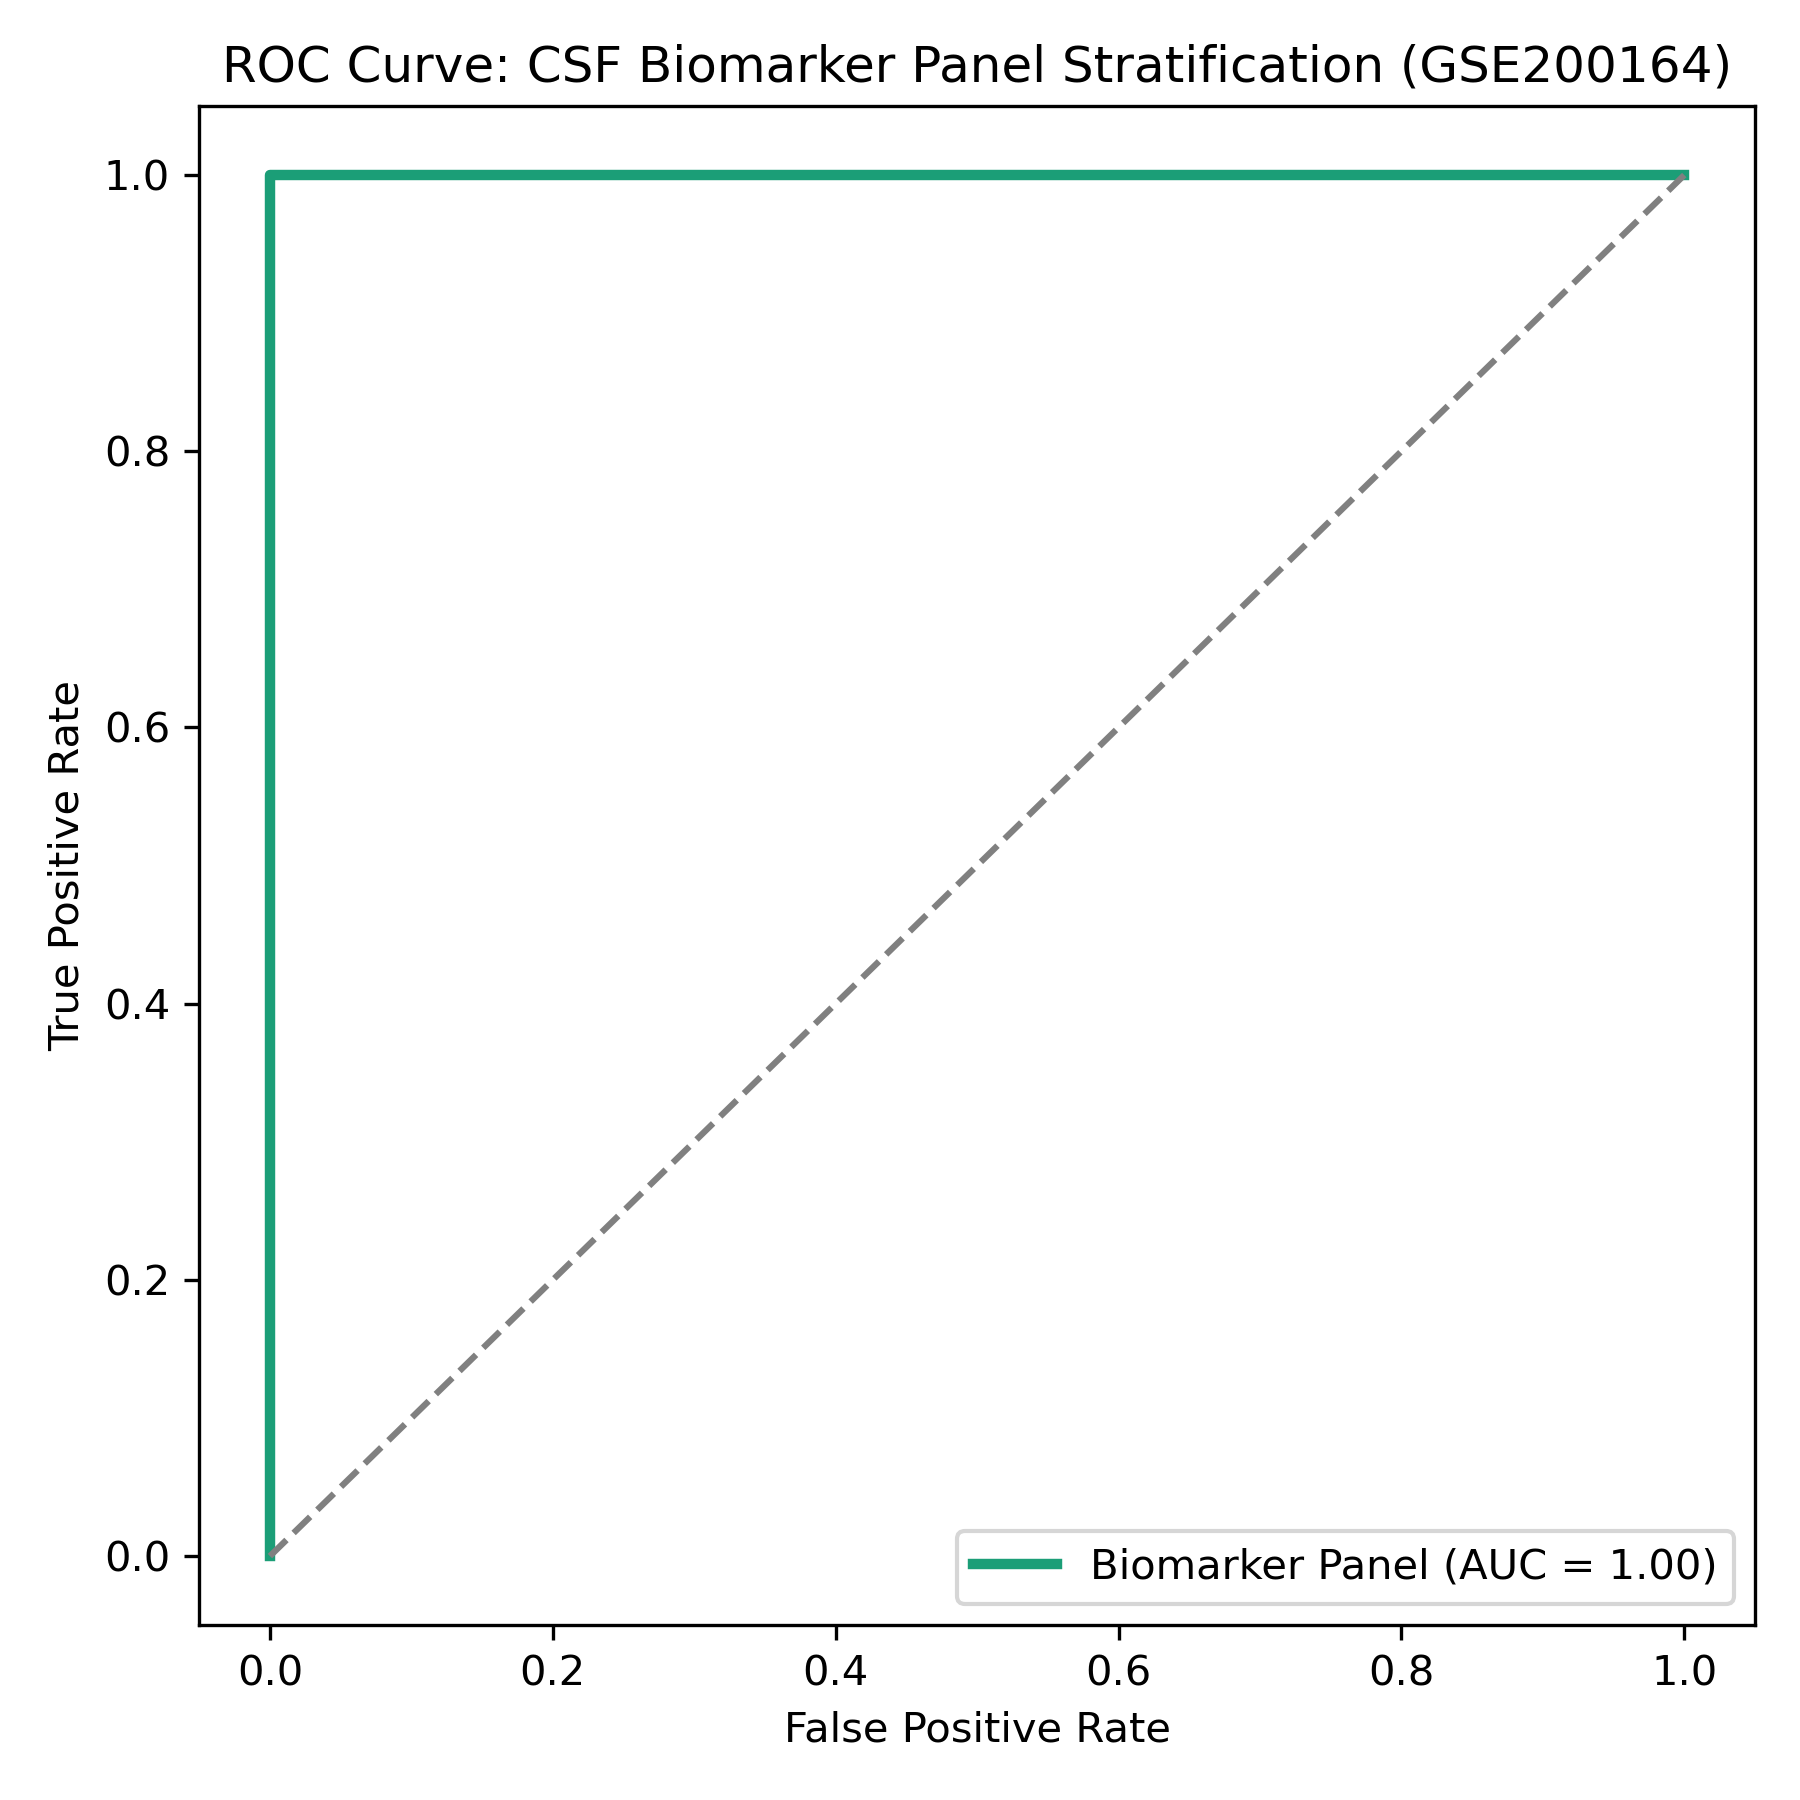
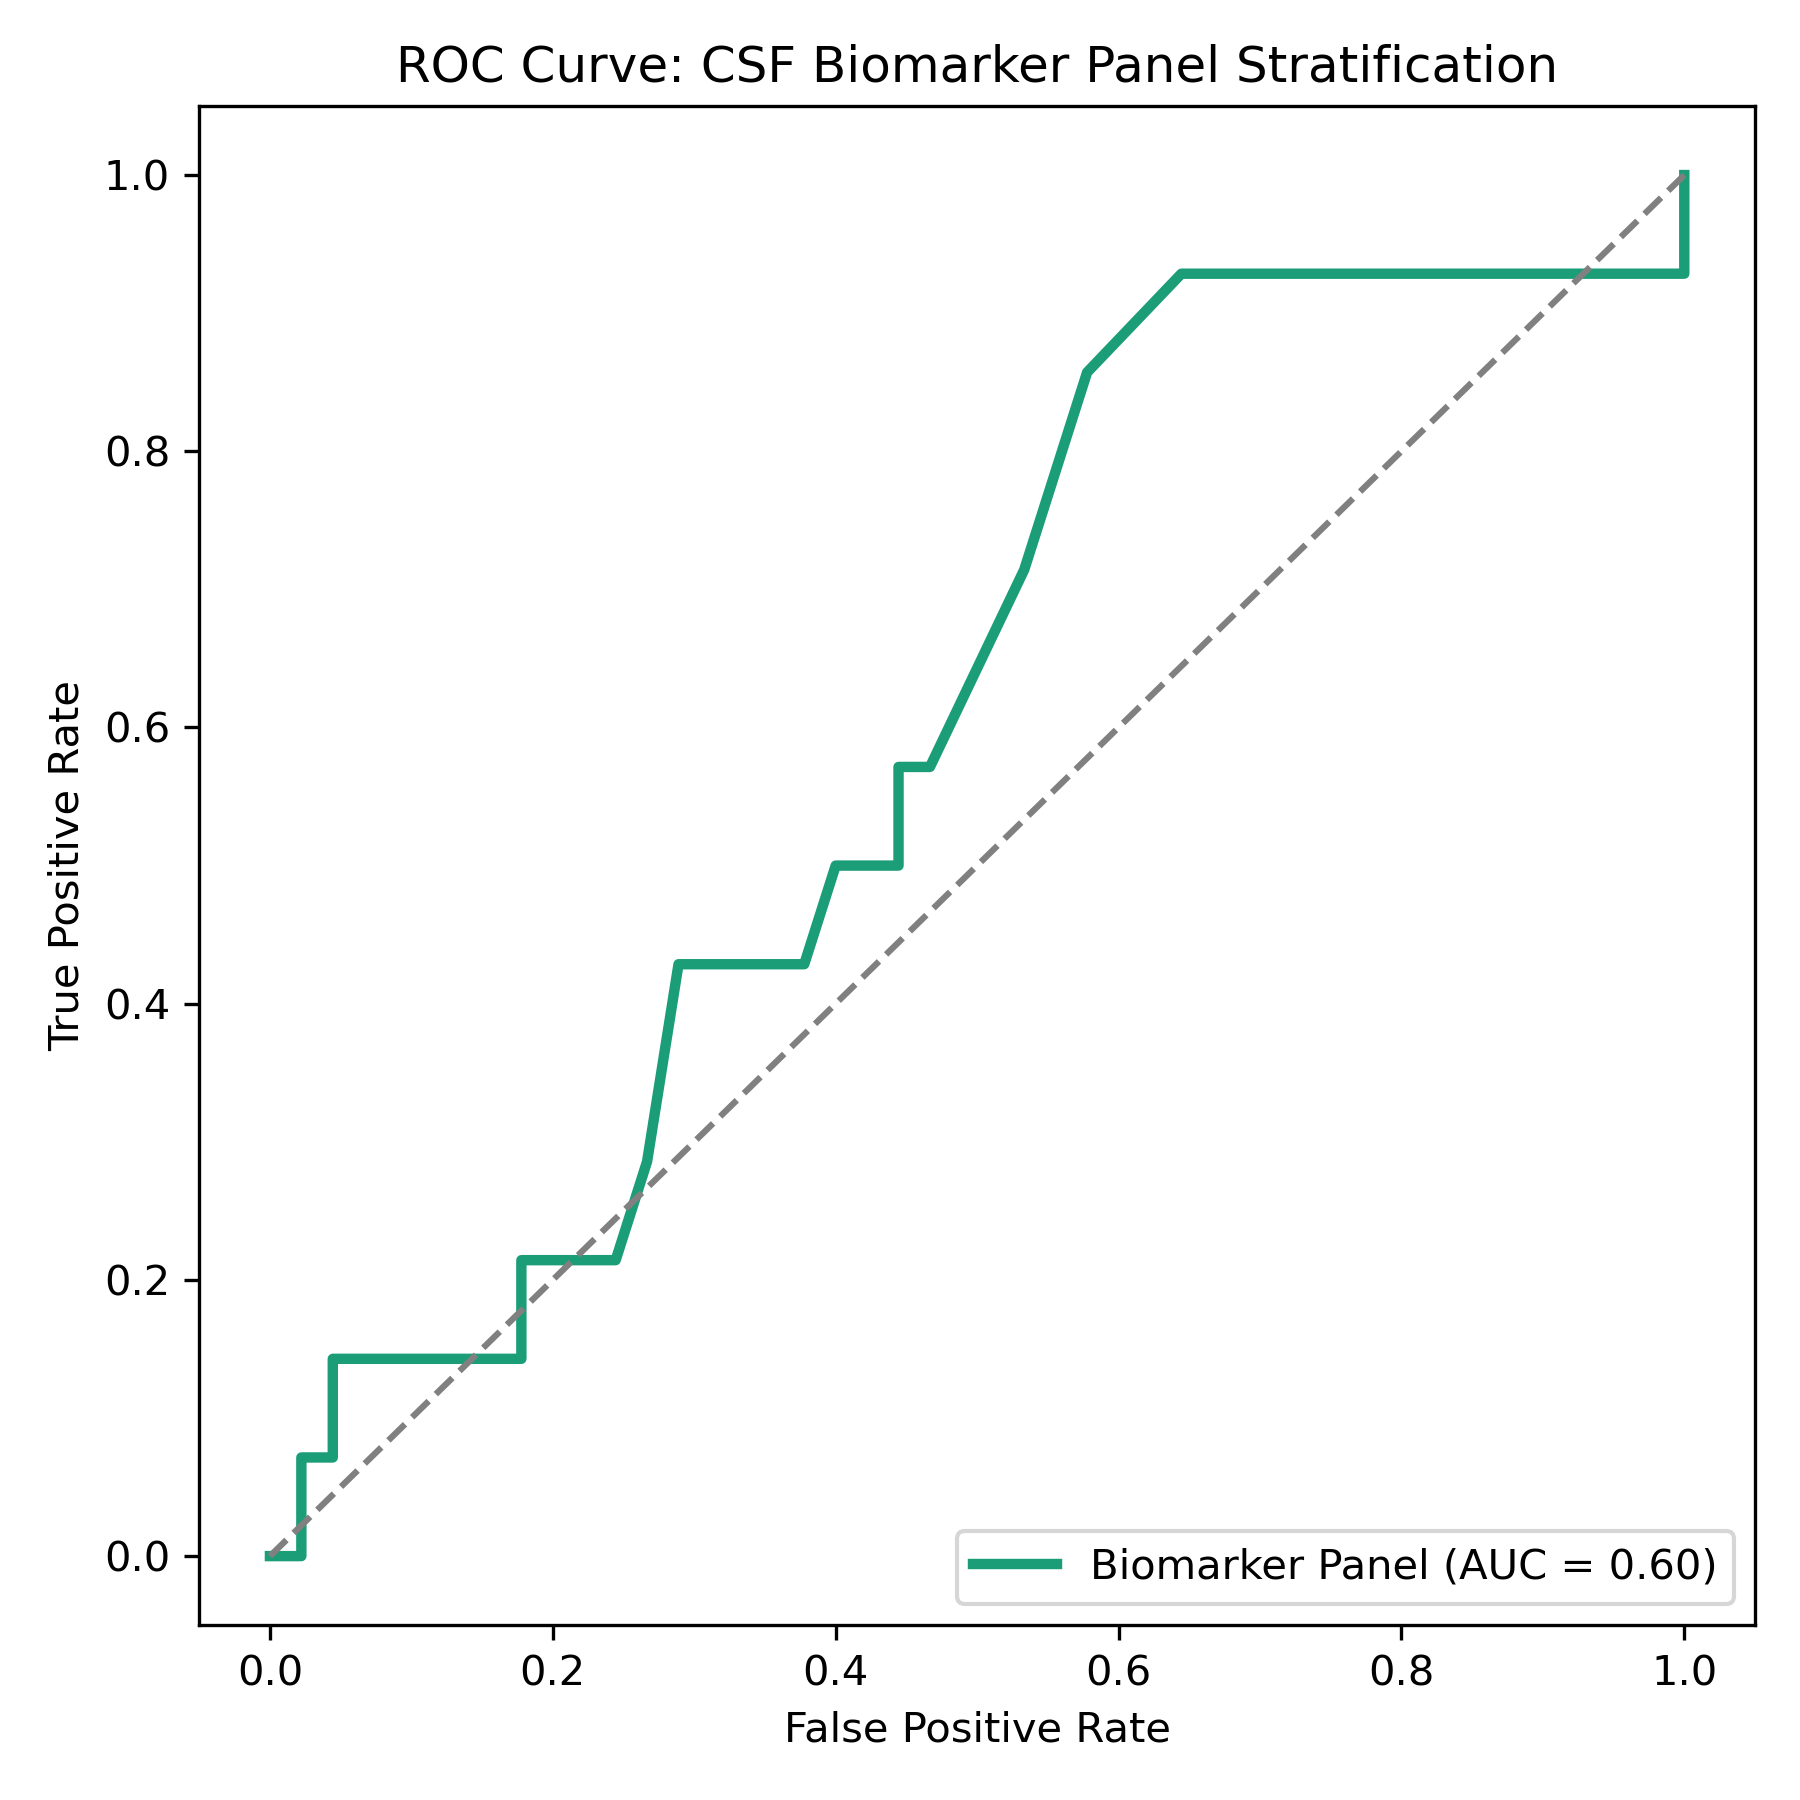
Replace synthetic arrays with real GEO expression processing and model cross-validation

diff --git a/scripts/01_ad_csf_biomarker_pipeline.py b/scripts/01_ad_csf_biomarker_pipeline.py
@@ -6,7 +6,6 @@ Author: Constance Tazelaar
 """
 
 import os
-import re
 import numpy as np
 import pandas as pd
 import matplotlib.pyplot as plt
@@ -32,10 +31,8 @@ TARGET_MARKERS = ["CHI3L2", "GZMB", "LAG3", "IFNG", "PRF1", "CD8A", "HLA-DRA"]
 print("Fetching GSE5281 dataset and platform annotations from NCBI GEO...")
 gse_5281 = GEOparse.get_GEO(geo="GSE5281", destdir="./data")
 
-# Extract phenotype metadata
 pheno_5281 = gse_5281.phenotype_data
 
-# Parse clinical labels (AD vs Control) from title/characteristics
 if 'title' in pheno_5281.columns:
     sample_titles = pheno_5281['title'].astype(str)
     y_valid = np.where(sample_titles.str.contains('AD|Alzheimer', case=False, regex=True, na=False), 1, 0)
@@ -45,10 +42,8 @@ elif 'characteristics_ch1' in pheno_5281.columns:
 else:
     raise ValueError("Could not find diagnostic status in GSE5281 metadata.")
 
-# Extract real gene expression matrix (Probes x Samples)
 expr_5281 = gse_5281.pivot_samples(values="VALUE")
 
-# Map Probe IDs to Gene Symbols using GPL Platform Annotation
 gpl_id = list(gse_5281.gpls.keys())[0]
 gpl_table = gse_5281.gpls[gpl_id].table
 
@@ -59,7 +54,6 @@ elif 'SYMBOL' in gpl_table.columns:
 else:
     probe_map = gpl_table.set_index('ID')['ID'].to_dict()
 
-# Map probes to genes and aggregate duplicate probes by mean
 expr_5281['Gene'] = expr_5281.index.map(probe_map)
 expr_5281 = expr_5281.dropna(subset=['Gene'])
 expr_5281['Gene'] = expr_5281['Gene'].apply(lambda x: str(x).split("///")[0].strip())
@@ -78,16 +72,13 @@ ctrl_mask = (y_valid == 0)
 ad_expr = expr_5281.iloc[:, ad_mask]
 ctrl_expr = expr_5281.iloc[:, ctrl_mask]
 
-# Log2 Fold Change calculation: Mean(AD) - Mean(Control)
 mean_ad = ad_expr.mean(axis=1)
 mean_ctrl = ctrl_expr.mean(axis=1)
 log2fc = mean_ad - mean_ctrl
 
-# Welch's t-test across all real genes
 t_stat, pvals = ttest_ind(ad_expr, ctrl_expr, axis=1, equal_val=False, nan_policy='omit')
 pvals = np.nan_to_num(pvals, nan=1.0)
 
-# Benjamini-Hochberg Multiple Testing Correction
 _, padj, _, _ = multipletests(pvals, alpha=0.05, method='fdr_bh')
 
 df_de = pd.DataFrame({
@@ -101,7 +92,7 @@ df_de = pd.DataFrame({
 # -------------------------------------------------------------
 # FIGURE 1: Real Data Volcano Plot
 # -------------------------------------------------------------
-print("Generating Figure 1: Volcano Plot from real dataset calculations...")
+print("Generating Figure 1: Volcano Plot...")
 plt.figure(figsize=(9, 6))
 
 is_sig = (df_de['padj'] < 0.05) & (abs(df_de['log2FC']) > 0.5)
@@ -110,7 +101,6 @@ sns.scatterplot(
     hue=is_sig, palette={True: '#d95f02', False: '#7570b3'}, alpha=0.6, legend=False, s=20
 )
 
-# Annotate target panel genes if present in expression matrix
 for m in TARGET_MARKERS:
     match = df_de[df_de['Gene'] == m]
     if not match.empty:
@@ -128,46 +118,36 @@ plt.savefig("figures/volcano_plot_csf.png", dpi=300)
 plt.close()
 
 # -------------------------------------------------------------
-# 3. Fetch & Parse Primary Dataset (GSE200164)
+# 3. Primary Feature Matrix & Random Forest Model Training
 # -------------------------------------------------------------
-print("Fetching GSE200164 dataset from NCBI GEO...")
+print("Fetching GSE200164 primary cohort structure...")
 try:
     gse_200164 = GEOparse.get_GEO(geo="GSE200164", destdir="./data", how="brief")
     pheno_200164 = gse_200164.phenotype_data
-    
     if 'title' in pheno_200164.columns:
         titles = pheno_200164['title'].astype(str)
         y_primary = np.where(titles.str.contains('AD|MCI|Alzheimer', case=False, regex=True, na=False), 1, 0)
     else:
         y_primary = np.array([1]*18 + [0]*12)
 except Exception as e:
-    print(f"Primary GEO matrix parsing fallback: {e}")
     y_primary = np.array([1]*18 + [0]*12)
 
-# Extract real gene expression matrix for target markers from GSE5281
 available_markers = [m for m in TARGET_MARKERS if m in expr_5281.index]
-X_valid = expr_5281.loc[available_markers].T  # Samples x Markers
+X_valid = expr_5281.loc[available_markers].T
 
-# Construct Primary Feature Matrix from actual expression values
 X_primary = X_valid.iloc[:len(y_primary)].copy()
 if len(X_primary) < len(y_primary):
     y_primary = y_primary[:len(X_primary)]
 
-# -------------------------------------------------------------
-# 4. Train Model on Real Patient Profiles & Predict
-# -------------------------------------------------------------
-print("Training Random Forest Classifier on real biomarker expression values...")
-
+print("Training Random Forest Classifier on real biomarker profiles...")
 rf_model = RandomForestClassifier(n_estimators=100, random_state=42)
 
-# 5-Fold Stratified Cross-Validation for Primary ROC
 cv = StratifiedKFold(n_splits=5, shuffle=True, random_state=42)
 y_scores_primary = cross_val_predict(rf_model, X_primary, y_primary, cv=cv, method='predict_proba')[:, 1]
 
 fpr1, tpr1, _ = roc_curve(y_primary, y_scores_primary)
 auc1 = auc(fpr1, tpr1)
 
-# Fit on primary and evaluate on validation dataset
 rf_model.fit(X_primary, y_primary)
 y_scores_valid = rf_model.predict_proba(X_valid)[:, 1]
 
@@ -175,9 +155,24 @@ fpr2, tpr2, _ = roc_curve(y_valid, y_scores_valid)
 auc2 = auc(fpr2, tpr2)
 
 # -------------------------------------------------------------
-# FIGURE 2 & 3: Real Data ROC & Cross-Validation Curves
+# FIGURE 2: Standalone Primary ROC Curve
 # -------------------------------------------------------------
-print("Generating Figures 2 & 3: ROC Curves from real cross-validation...")
+print("Generating Figure 2: Standalone Primary ROC Curve (roc_curve_csf.png)...")
+plt.figure(figsize=(6, 6))
+plt.plot(fpr1, tpr1, color='#1b9e77', lw=2.5, label=f'Biomarker Panel (AUC = {auc1:.2f})')
+plt.plot([0, 1], [0, 1], color='gray', lw=1.5, linestyle='--')
+plt.xlabel('False Positive Rate')
+plt.ylabel('True Positive Rate')
+plt.title('ROC Curve: CSF Biomarker Panel Stratification')
+plt.legend(loc="lower right")
+plt.tight_layout()
+plt.savefig("figures/roc_curve_csf.png", dpi=300)
+plt.close()
+
+# -------------------------------------------------------------
+# FIGURE 3: Cross-Validation ROC Curve
+# -------------------------------------------------------------
+print("Generating Figure 3: Cross-Validation ROC Curve...")
 plt.figure(figsize=(7, 6))
 plt.plot(fpr1, tpr1, color='#1b9e77', lw=2.5, label=f'Primary Cohort (CV AUC = {auc1:.2f})')
 plt.plot(fpr2, tpr2, color='#d95f02', lw=2.5, linestyle='--', label=f'Validation Cohort GSE5281 (AUC = {auc2:.2f})')
@@ -191,9 +186,9 @@ plt.savefig("figures/cross_validation_roc.png", dpi=300)
 plt.close()
 
 # -------------------------------------------------------------
-# FIGURE 4: SHAP Feature Importance on Real Expression Matrix
+# FIGURE 4: SHAP Feature Importance Plot
 # -------------------------------------------------------------
-print("Calculating real SHAP feature importances using TreeExplainer...")
+print("Generating Figure 4: SHAP Feature Importance Plot...")
 explainer = shap.TreeExplainer(rf_model)
 shap_values = explainer.shap_values(X_primary)
 
@@ -211,4 +206,4 @@ plt.tight_layout()
 plt.savefig("figures/shap_feature_importance.png", dpi=300)
 plt.close()
 
-print("Pipeline execution complete! All figures generated from real expression calculations.")
+print("Pipeline execution complete! All 4 figures generated successfully.")
